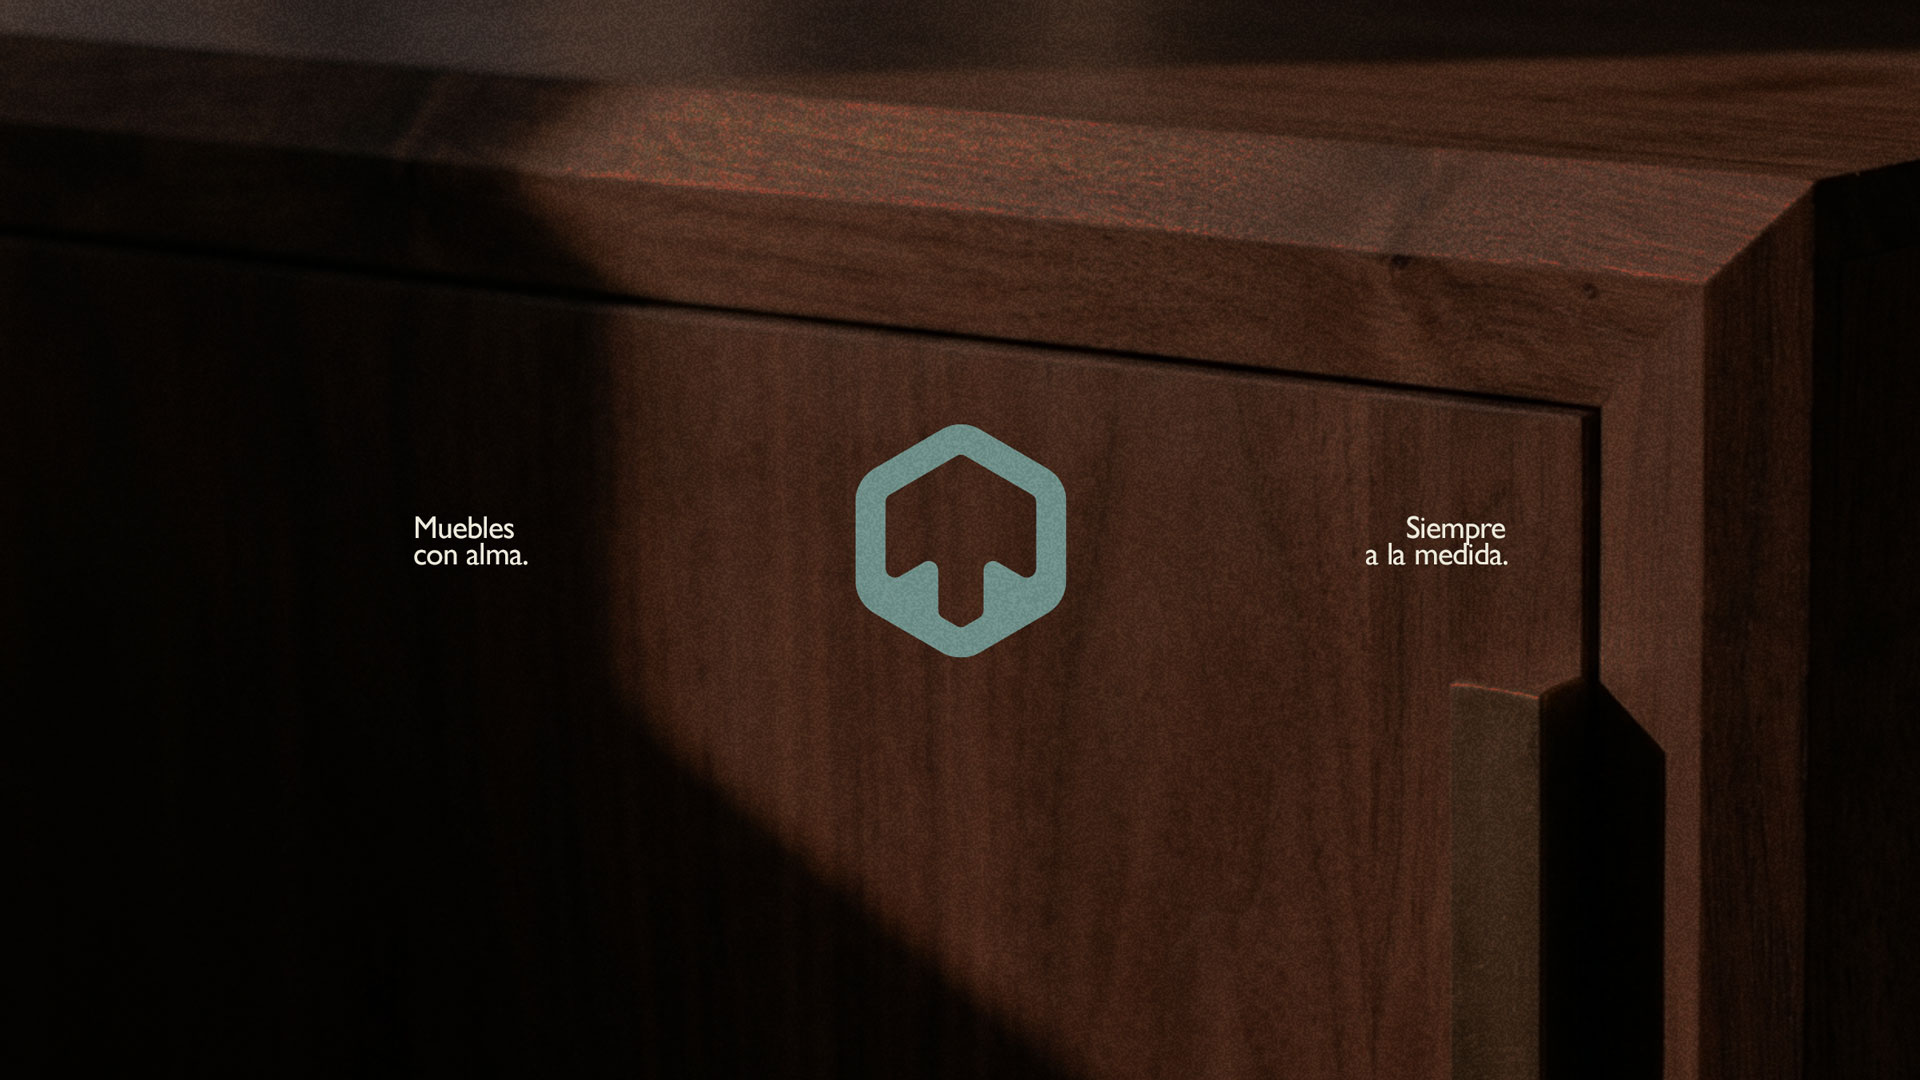
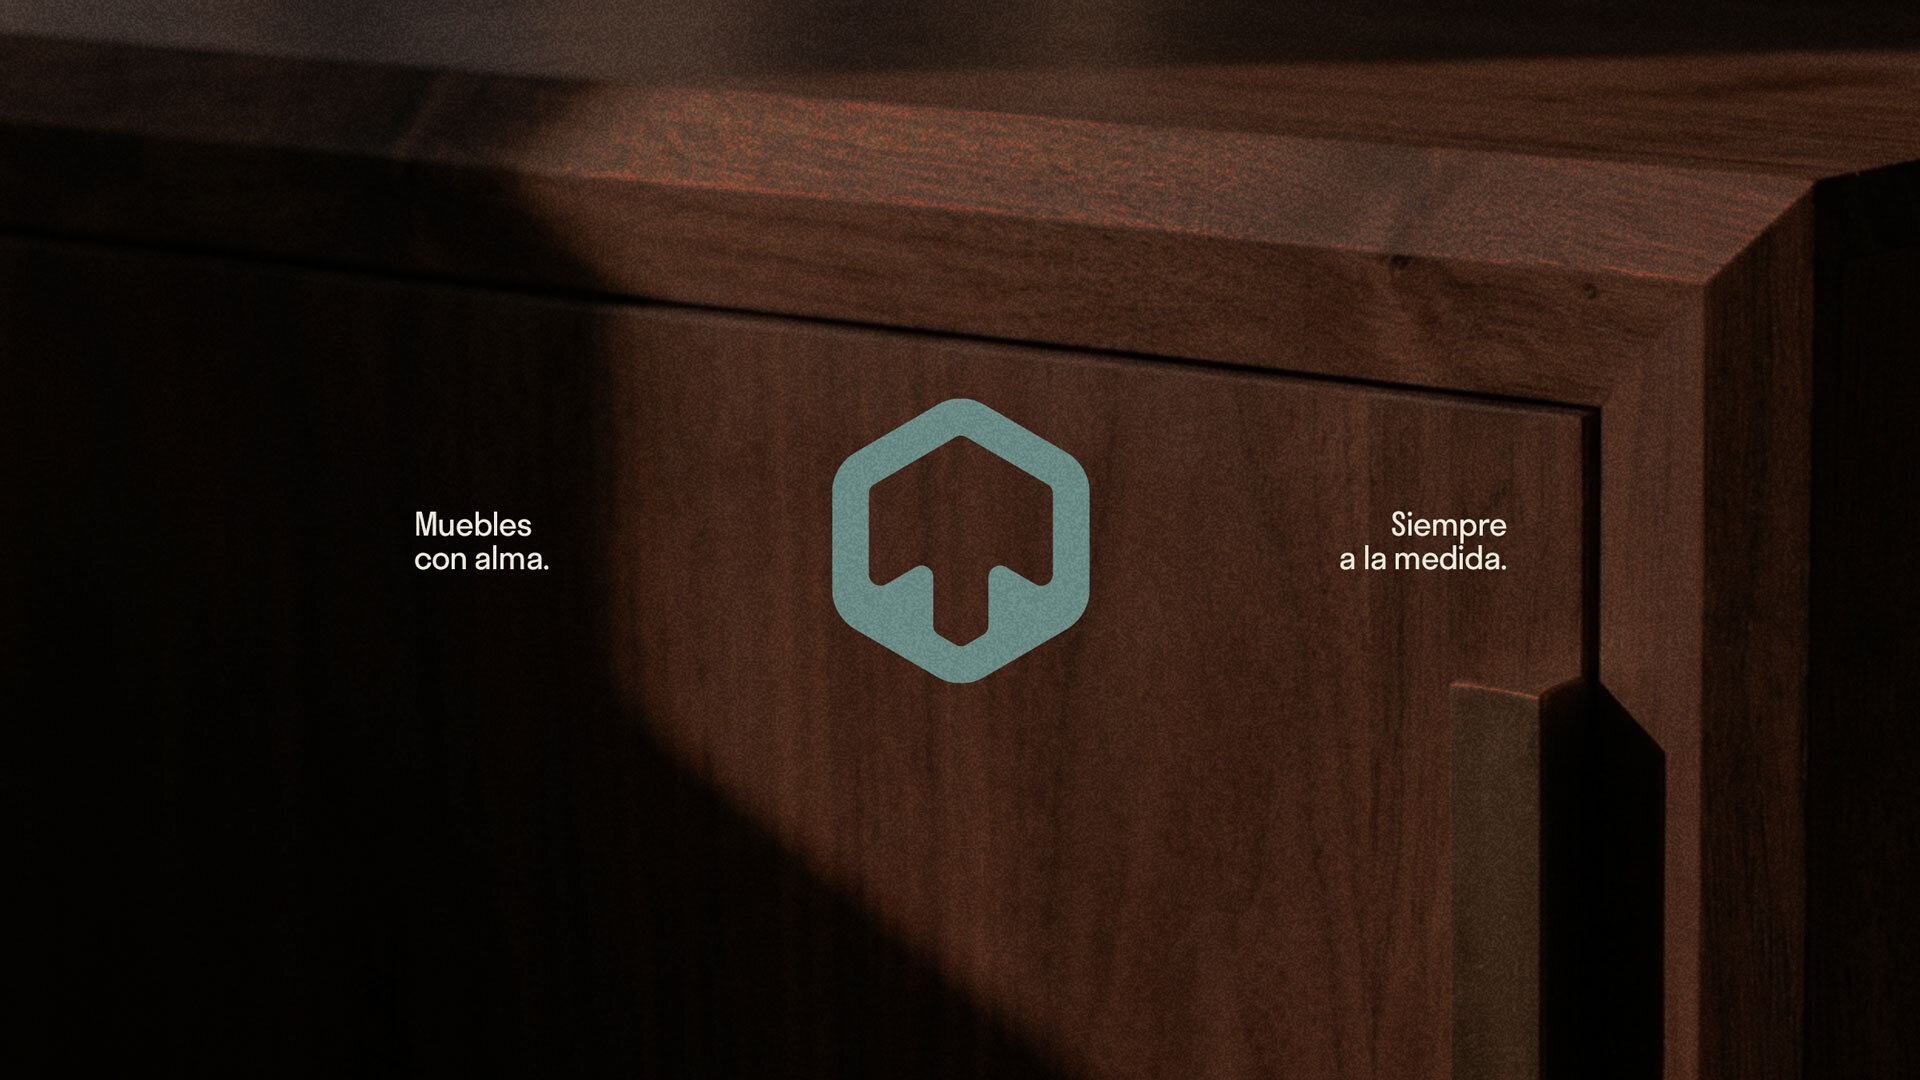
Update Totoppo hero and expand gallery with new imagery
Swaps the cover for Javier's new brand deck shot ("Muebles con alma. /
Siempre a la medida.") and refreshes the logotype construction detail.
Adds three new gallery images: a presentation cover over a
hand-carving close up, the house mark on a woven canvas tag, and
business cards for the studio and its head carpenter on wood
shavings. Updated in both the English and Spanish content files.

Claude-Session: https://claude.ai/code/session_01SSuoHEEgpazPzSb4YRAidy

Changed region(s): [[0.4062, 0.3667, 0.5938, 0.6417], [0.6875, 0.4583, 0.7812, 0.55], [0.2188, 0.4583, 0.2812, 0.55]]

diff --git a/src/content/projects-es/totoppo.ts b/src/content/projects-es/totoppo.ts
@@ -37,6 +37,21 @@ const project: Project = {
       alt: "Totoppo. Detalle de construcción del logotipo.",
       aspect: "wide",
     },
+    {
+      src: "/images/totoppo/gallery-4.jpg",
+      alt: "Totoppo. Una portada de presentación que dice \"No creemos en catálogos,\" sobre un primer plano de una mano tallando madera.",
+      aspect: "portrait",
+    },
+    {
+      src: "/images/totoppo/gallery-5.jpg",
+      alt: "Totoppo. El símbolo con forma de casa en una etiqueta de lona tejida.",
+      aspect: "portrait",
+    },
+    {
+      src: "/images/totoppo/gallery-6.jpg",
+      alt: "Totoppo. Tarjetas de presentación del estudio y su carpintero principal, sobre una cama de viruta de madera.",
+      aspect: "wide",
+    },
   ],
 };
 

diff --git a/src/content/projects/totoppo.ts b/src/content/projects/totoppo.ts
@@ -37,6 +37,21 @@ const project: Project = {
       alt: "Totoppo. Logotype construction detail.",
       aspect: "wide",
     },
+    {
+      src: "/images/totoppo/gallery-4.jpg",
+      alt: "Totoppo. A presentation cover reading \"No creemos en catálogos,\" over a close up of a hand carving wood.",
+      aspect: "portrait",
+    },
+    {
+      src: "/images/totoppo/gallery-5.jpg",
+      alt: "Totoppo. The house mark on a woven canvas tag.",
+      aspect: "portrait",
+    },
+    {
+      src: "/images/totoppo/gallery-6.jpg",
+      alt: "Totoppo. Business cards for the studio and its head carpenter, on a bed of wood shavings.",
+      aspect: "wide",
+    },
   ],
   theme: { bodyColor: "#ebe9db" },
 };
